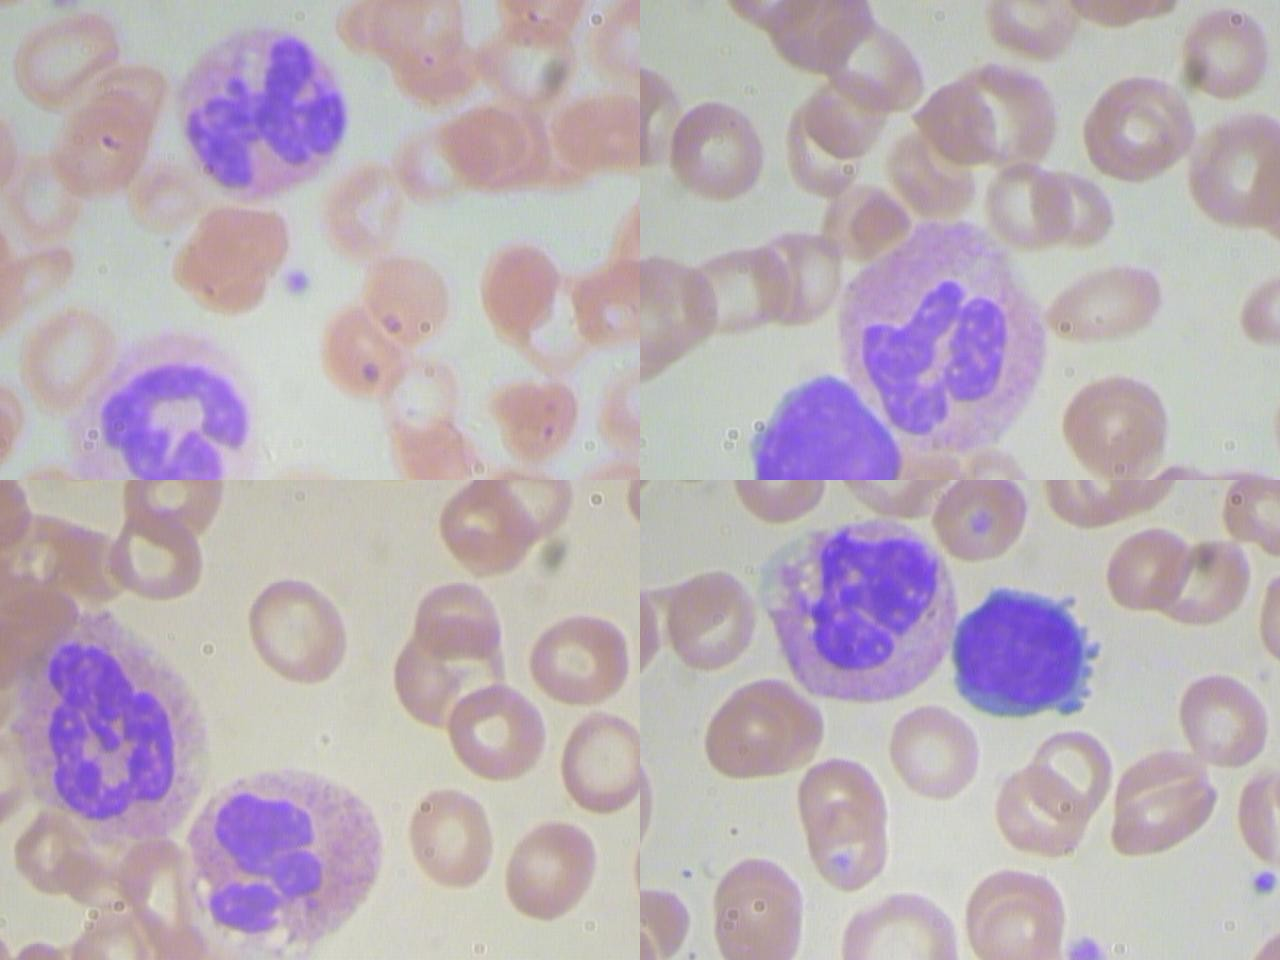
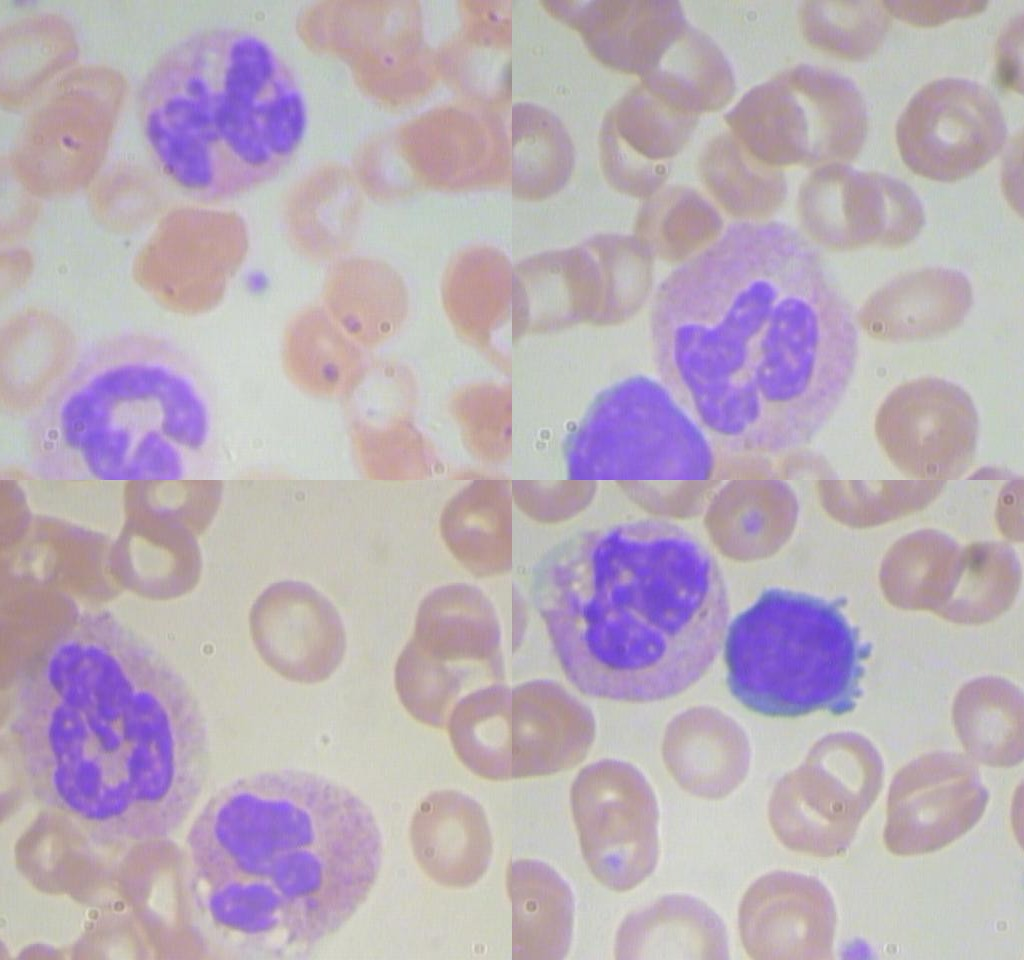
Align the mockup cards on a shared baseline at 1440 px
The image card now fills the column height and the right-hand cards
stretch to end on the same line, so there is no gap under the legend or
between the top cards and the agent report. The sample mosaic is cropped
to 1024x960 so the image fits the stretched stage without being cut by
object-fit; the mobile stage uses the same aspect ratio.

diff --git a/web/mockup/index.html b/web/mockup/index.html
@@ -81,10 +81,10 @@ main {
   display: grid;
   gap: 16px;
   padding: 16px 28px;
-  grid-template-columns: minmax(0, 2.15fr) minmax(0, 1fr) minmax(0, 1fr);
-  grid-template-rows: auto auto;
+  grid-template-columns: minmax(0, 2.1fr) minmax(0, 1fr) minmax(0, 1fr);
+  grid-template-rows: auto 1fr;
   grid-template-areas: "viewer formula review" "viewer agent agent";
-  align-items: start;
+  align-items: stretch;
 }
 .card {
   background: var(--card); border: 1px solid var(--line); border-radius: 10px;
@@ -95,8 +95,9 @@ main {
   display: flex; align-items: center; justify-content: space-between; gap: 8px;
 }
 .viewer { grid-area: viewer; display: flex; flex-direction: column; gap: 12px; }
-.formula { grid-area: formula; }
-.review { grid-area: review; }
+.formula { grid-area: formula; display: flex; flex-direction: column; }
+.review { grid-area: review; display: flex; flex-direction: column; }
+.review .hint { margin-top: auto; padding-top: 10px; }
 .agent { grid-area: agent; }
 
 .drop {
@@ -109,8 +110,8 @@ main {
 .drop span { color: var(--ink-2); font-size: 13px; }
 .drop .file { margin-left: auto; font: 12px/1.3 var(--mono); color: var(--ink-2); text-align: right; white-space: nowrap; }
 
-.stage { position: relative; border-radius: 8px; overflow: hidden; background: #000; line-height: 0; }
-.stage img { width: 100%; height: auto; display: block; }
+.stage { position: relative; flex: 1; min-height: 0; border-radius: 8px; overflow: hidden; background: #000; line-height: 0; }
+.stage img { position: absolute; inset: 0; width: 100%; height: 100%; object-fit: cover; display: block; }
 .stage svg.boxes { position: absolute; inset: 0; width: 100%; height: 100%; }
 .box { fill: transparent; stroke: var(--c); stroke-width: 2.5; vector-effect: non-scaling-stroke; cursor: pointer; }
 .box.rev { stroke-dasharray: 7 5; stroke-width: 3; }
@@ -134,7 +135,7 @@ main {
 
 .stack { display: flex; height: 12px; border-radius: 3px; overflow: hidden; background: var(--line); margin-bottom: 12px; gap: 1px; }
 .stack div { background: var(--c); }
-.rows { display: grid; gap: 2px; }
+.rows { display: grid; gap: 2px; flex: 1; align-content: space-around; padding-bottom: 8px; }
 .row {
   display: grid; grid-template-columns: 12px 1fr auto 62px; align-items: center; gap: 8px; padding: 4px 6px; border-radius: 5px;
 }
@@ -145,7 +146,7 @@ main {
 .row .ct { font: 12px var(--mono); color: var(--ink-2); text-align: right; }
 .row.zero { opacity: .45; }
 .row.zero .sw { background: transparent; border: 1.5px solid var(--c); }
-.counts { display: grid; grid-template-columns: repeat(3, 1fr); gap: 8px; margin-top: 12px; padding-top: 12px; border-top: 1px solid var(--line); }
+.counts { margin-top: auto; display: grid; grid-template-columns: repeat(3, 1fr); gap: 8px; padding-top: 12px; border-top: 1px solid var(--line); }
 .stat b { display: block; font: 600 26px/1.05 var(--serif); font-variant-numeric: tabular-nums; }
 .stat span { font: 11px var(--mono); letter-spacing: .04em; text-transform: uppercase; color: var(--ink-2); }
 
@@ -164,7 +165,8 @@ main {
 
 .agent { background: var(--example-bg); border-style: dashed; }
 .agent .tag { color: var(--review); border: 1px solid currentColor; padding: 3px 7px; border-radius: 999px; font-size: 10px; }
-.agent .body { display: grid; grid-template-columns: 1fr 1fr; gap: 6px 28px; }
+.agent { display: flex; flex-direction: column; }
+.agent .body { flex: 1; align-content: space-between; display: grid; grid-template-columns: 1fr 1fr; gap: 6px 28px; }
 .agent p { margin: 0 0 8px; font-size: 13.5px; }
 .agent h3 { margin: 0 0 4px; font: 600 11px/1.2 var(--mono); letter-spacing: .08em; text-transform: uppercase; color: var(--accent); }
 .agent ul { margin: 0; padding-left: 18px; font-size: 13.5px; }
@@ -177,12 +179,13 @@ footer {
 footer svg { width: 15px; height: 15px; flex: none; color: var(--accent); }
 
 @media (max-width: 1100px) {
-  main { grid-template-columns: 1fr 1fr; grid-template-areas: "viewer viewer" "formula review" "agent agent"; }
+  main { grid-template-columns: 1fr 1fr; grid-template-rows: auto; grid-template-areas: "viewer viewer" "formula review" "agent agent"; }
+  .stage { flex: none; aspect-ratio: 1024 / 960; }
 }
 @media (max-width: 700px) {
   header { padding: 10px 16px; flex-wrap: wrap; }
   .brand small { display: none; }
-  main { padding: 12px 16px; grid-template-columns: minmax(0, 1fr); grid-template-areas: "viewer" "formula" "review" "agent"; }
+  main { padding: 12px 16px; grid-template-rows: auto; grid-template-columns: minmax(0, 1fr); grid-template-areas: "viewer" "formula" "review" "agent"; }
   .drop { flex-wrap: wrap; }
   .drop .file { margin-left: 0; white-space: normal; text-align: left; flex-basis: 100%; }
   .agent .body { grid-template-columns: 1fr; }
@@ -212,7 +215,7 @@ footer svg { width: 15px; height: 15px; flex: none; color: var(--accent); }
     </div>
     <div class="stage" id="stage">
       <img id="img" alt="Blood smear field with detected white blood cells">
-      <svg class="boxes" id="boxes" preserveAspectRatio="none"></svg>
+      <svg class="boxes" id="boxes"></svg>
       <div class="tip" id="tip" hidden></div>
     </div>
     <div class="legend" id="legend"></div>
@@ -313,6 +316,7 @@ function render() {
 
   const W = j.image.width, H = j.image.height, svg = $("boxes");
   svg.setAttribute("viewBox", `0 0 ${W} ${H}`);
+  svg.setAttribute("preserveAspectRatio", "xMidYMid slice");
   svg.replaceChildren();
   const revs = [];
   j.white_cells.forEach((c, i) => { if (c.needs_review) revs.push(i); });
